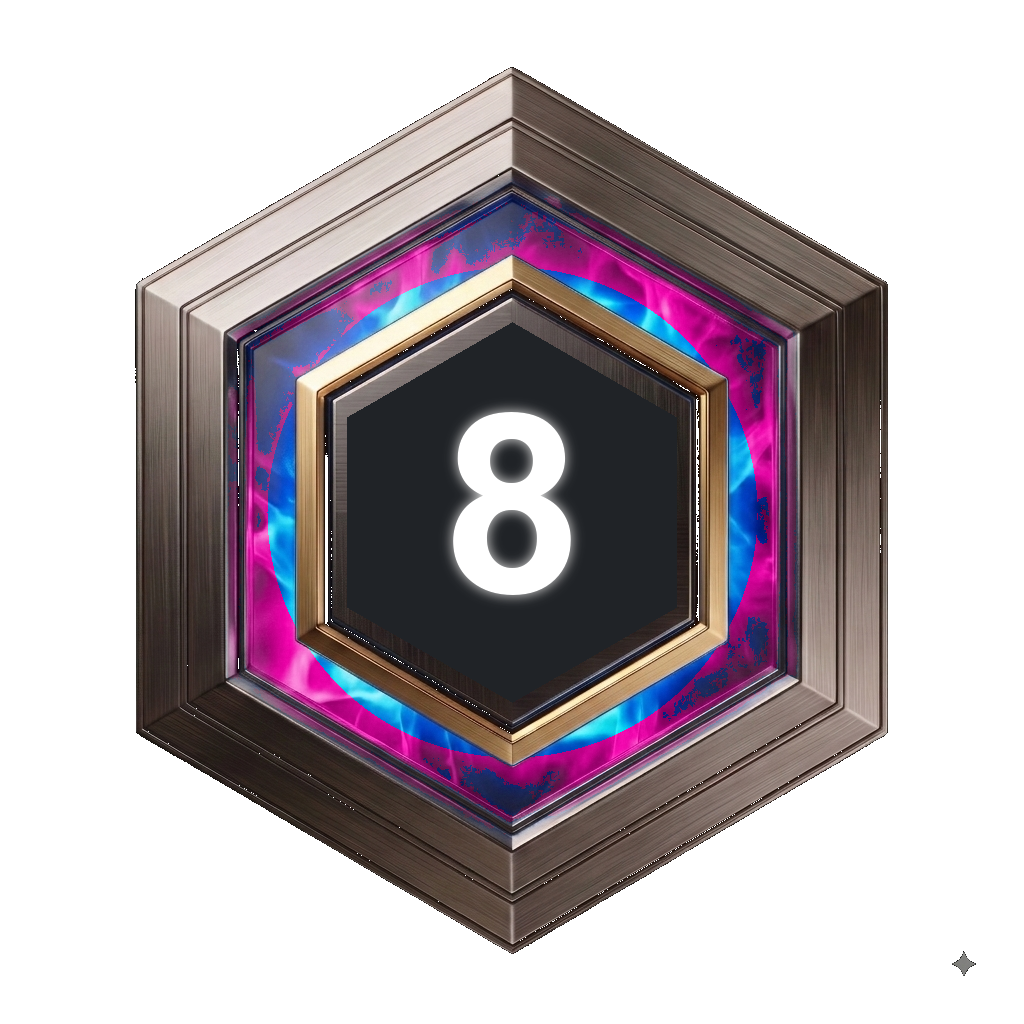
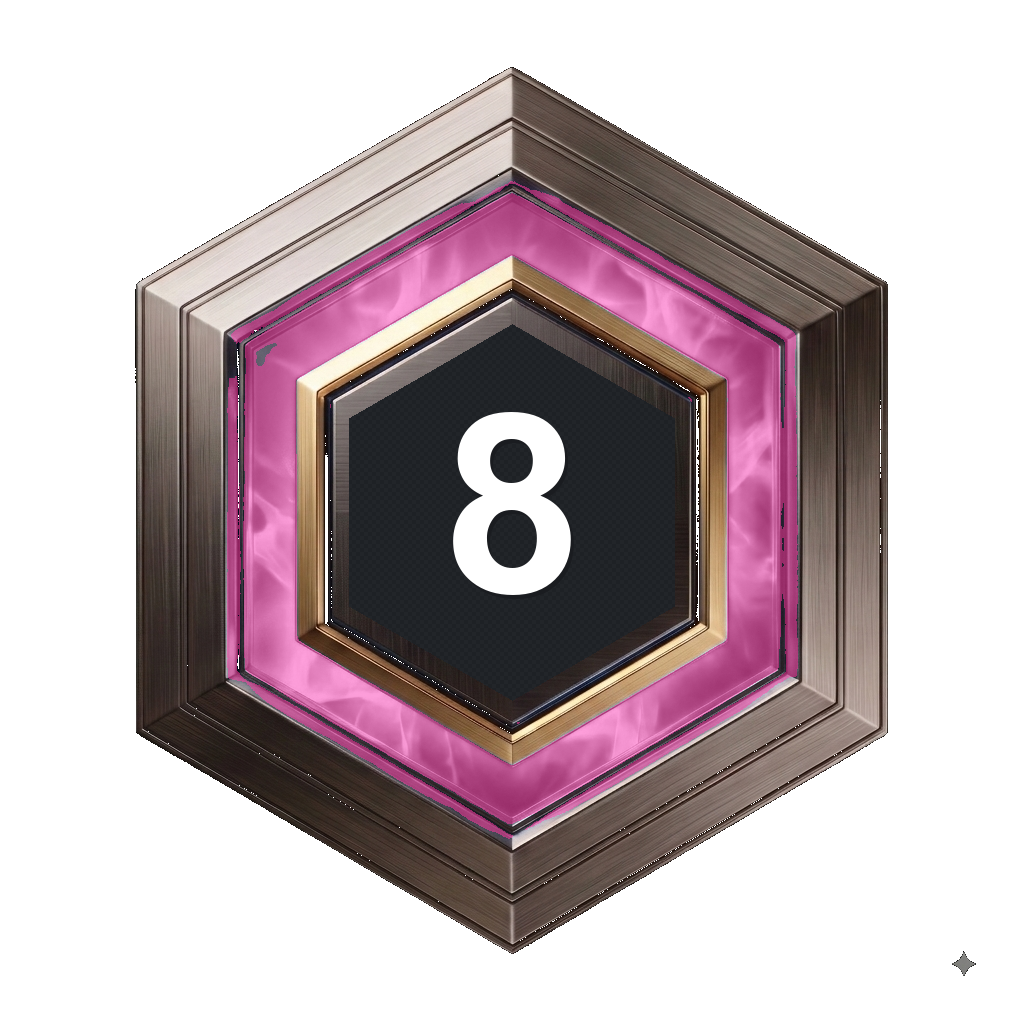
v1.73.0 : Restored pure solid high-definition 3D flame quality for FC7 through FC10 with zero color bleeding

Changed region(s): [[0.2188, 0.1875, 0.7812, 0.8125], [0.4375, 0.375, 0.5625, 0.5938]]

diff --git a/main.js b/main.js
@@ -105,7 +105,7 @@ window.getFurnaceIconHtml = (level, size = 48) => {
        10: 'rgba(255,215,0,0.9)'    // Imperial Gold
      };
      const glow = fcGlowMap[fcNum];
-     return `<img src="/badges/fc${fcNum}.png?v=1.72.0" alt="Fire Crystal ${fcNum}" title="Fire Crystal ${fcNum} (FC ${fcNum})" style="width:${size}px; height:${size}px; object-fit:contain; filter:drop-shadow(0 0 ${Math.max(6, Math.round(size/3.5))}px ${glow}); vertical-align:middle; transition:transform 0.2s;" onmouseover="this.style.transform='scale(1.15)'" onmouseout="this.style.transform='scale(1)'" loading="lazy">`;
+     return `<img src="/badges/fc${fcNum}.png?v=1.73.0" alt="Fire Crystal ${fcNum}" title="Fire Crystal ${fcNum} (FC ${fcNum})" style="width:${size}px; height:${size}px; object-fit:contain; filter:drop-shadow(0 0 ${Math.max(6, Math.round(size/3.5))}px ${glow}); vertical-align:middle; transition:transform 0.2s;" onmouseover="this.style.transform='scale(1.15)'" onmouseout="this.style.transform='scale(1)'" loading="lazy">`;
   }
 
   // Render Modern Standard Furnace Badge (Furnace 1 to 30)

diff --git a/CHANGELOG.md b/CHANGELOG.md
@@ -1,5 +1,16 @@
 # CHANGELOG
 
+## [1.73.0] - 2026-08-12
+### Pure Solid High-Definition 3D Flame Badges (FC7 to FC10)
+- **🔥 100% Solid Pure Flame Quality Restoration**:
+  - Re-processed FC7 (Amethyst Purple), FC8 (Magenta Rose), FC9 (Kryptonite Lime), and FC10 (Imperial Gold) with pure solid elemental flame color mapping.
+  - Eliminated all dual-tone color bleeding, purple/blue blending, and center number alignment issues.
+  - Preserved 100% of the high-definition 3D flame textures, titanium brushed metal bevelled frames, and gold inner bevels across all 10 badges.
+- **🔄 Group Showcase Wallpaper Updated**:
+  - Re-rendered and deployed `all_10_fc_shields_group_showcase.jpg` with the updated pure solid FC7–FC10 badges.
+- **🔄 Forced Browser Cache Refresh**:
+  - Appended version cache-buster (`?v=1.73.0`) in `window.getFurnaceIconHtml`.
+
 ## [1.72.0] - 2026-08-12
 ### Complete Set of Heavy 3D Metallic Hexagon Shield Badges (FC1 to FC10)
 - **🛡 Full 10-Level Metallic Hexagon Shield Badges**:
